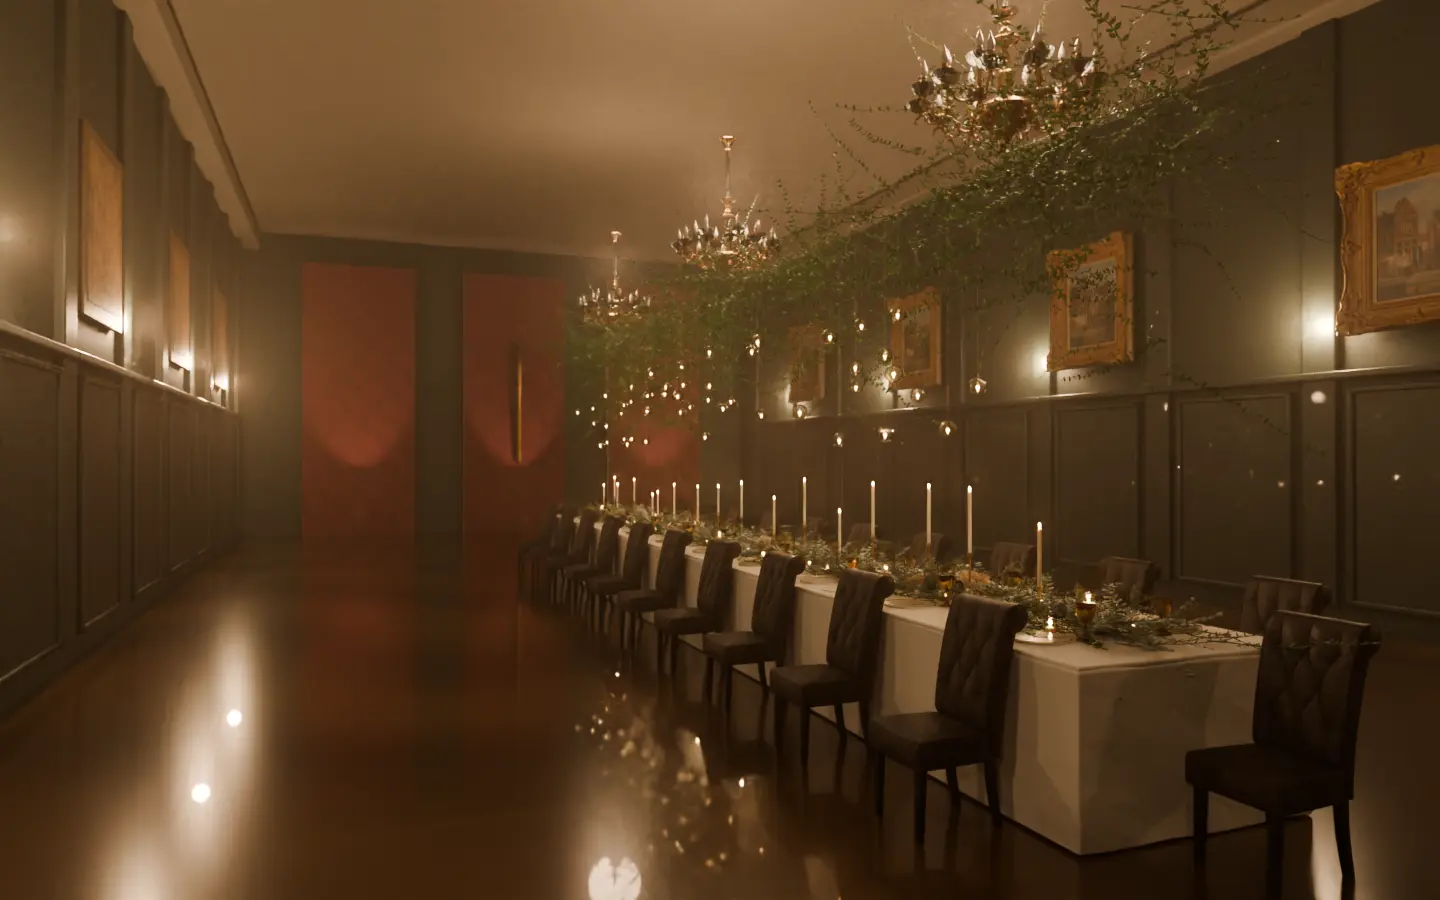
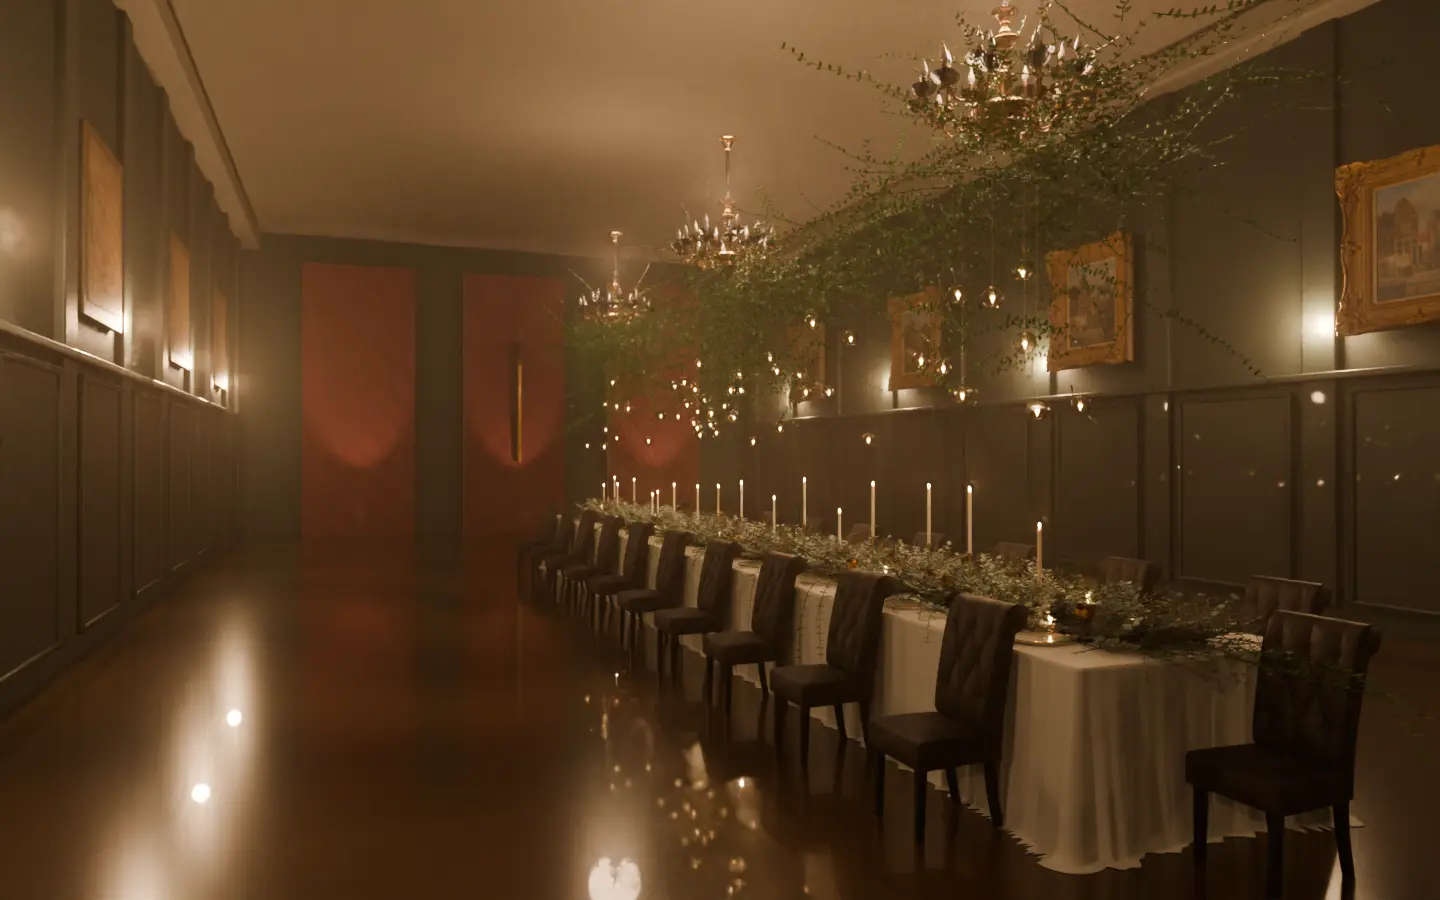
Maudry: final design visuals (fuller runner spilling over the edges, linen with folds, corner drape and a hem on the floor)
Claude-Session: https://claude.ai/code/session_01GLMYSyvMEQKwnRwGpmps8S

diff --git a/docs/SPEED-LOG.md b/docs/SPEED-LOG.md
@@ -594,7 +594,7 @@ _From `docs/trades/events/speed.md`._
 Whole site: JS 11.5 KB gz, CSS 9.9 KB gz, fonts 43.4 KB (Eczar 400/500/600; latin woff2). HTML gz: home 7.2 KB,
 rooms 5.8 KB, start 5 KB, your proposal 4.8 KB. Images counted: home 1,183 KB in all, 355 KB on the first screen (the
 library hero, 2000×1334 WebP at 240 KB; phones get a 900 px 4:5 crop at 115 KB; everything below is lazy); rooms
-1,683 KB (240 KB first). Design visuals and Lay the table: 1440×900 WebP, 36–71 KB each (dark renders compress well).
+1,683 KB (240 KB first). Design visuals and Lay the table: 1440×900 WebP, 38–80 KB each (dark renders compress well).
 Fallback font size-matched against Liberation Serif: Eczar 400 108.1% (ascent 105.7%, descent 58.6%), 500 104.7%.
 The client fixture (Signature, sheet sources): JS 10.9 KB gz, CSS 8.8 KB gz. `npm run budget` passes for both.
 To check on the first CI run: phone layout shift and accessibility (the all-sites end-to-end tests) and Lighthouse.

diff --git a/docs/trades/events/speed.md b/docs/trades/events/speed.md
@@ -5,7 +5,7 @@
 Whole site: JS 11.5 KB gz, CSS 9.9 KB gz, fonts 43.4 KB (Eczar 400/500/600; latin woff2). HTML gz: home 7.2 KB,
 rooms 5.8 KB, start 5 KB, your proposal 4.8 KB. Images counted: home 1,183 KB in all, 355 KB on the first screen (the
 library hero, 2000×1334 WebP at 240 KB; phones get a 900 px 4:5 crop at 115 KB; everything below is lazy); rooms
-1,683 KB (240 KB first). Design visuals and Lay the table: 1440×900 WebP, 36–71 KB each (dark renders compress well).
+1,683 KB (240 KB first). Design visuals and Lay the table: 1440×900 WebP, 38–80 KB each (dark renders compress well).
 Fallback font size-matched against Liberation Serif: Eczar 400 108.1% (ascent 105.7%, descent 58.6%), 500 104.7%.
 The client fixture (Signature, sheet sources): JS 10.9 KB gz, CSS 8.8 KB gz. `npm run budget` passes for both.
 To check on the first CI run: phone layout shift and accessibility (the all-sites end-to-end tests) and Lighthouse.
